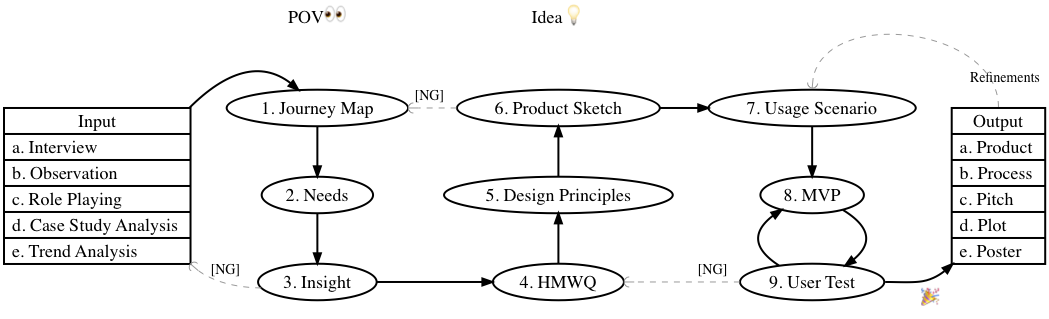
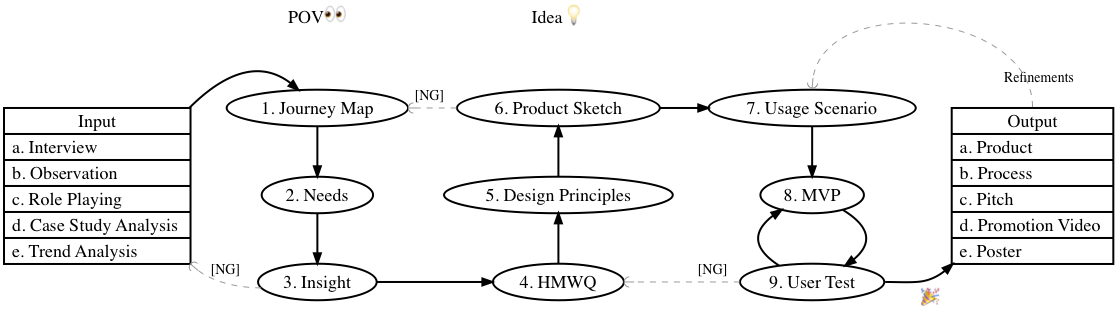
PV

diff --git a/toolkit/index.md b/toolkit/index.md
@@ -57,7 +57,7 @@ title: EDP Toolkit
 - a. Product: JUST MAKE IT
 - b. Process: TBD
 - c. Pitch: [Pitch Template](/resources/pitch-template/)
-- d. Plot: SHOOT A MOVIE based on the Storyboard and Casts-Props-Scene
+- d. Promotion Video: SHOOT A MOVIE based on the Storyboard and Casts-Props-Scene
 - e. Poster: JUST MAKE IT
 
 ## Archive - Previous Toolkit
